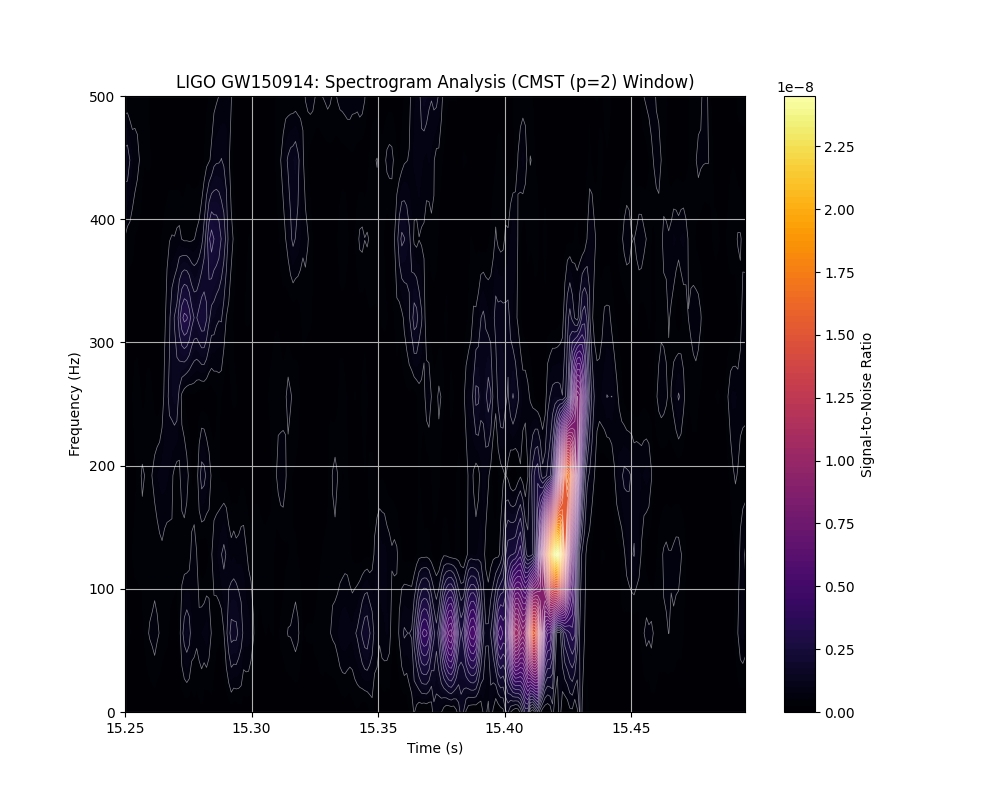
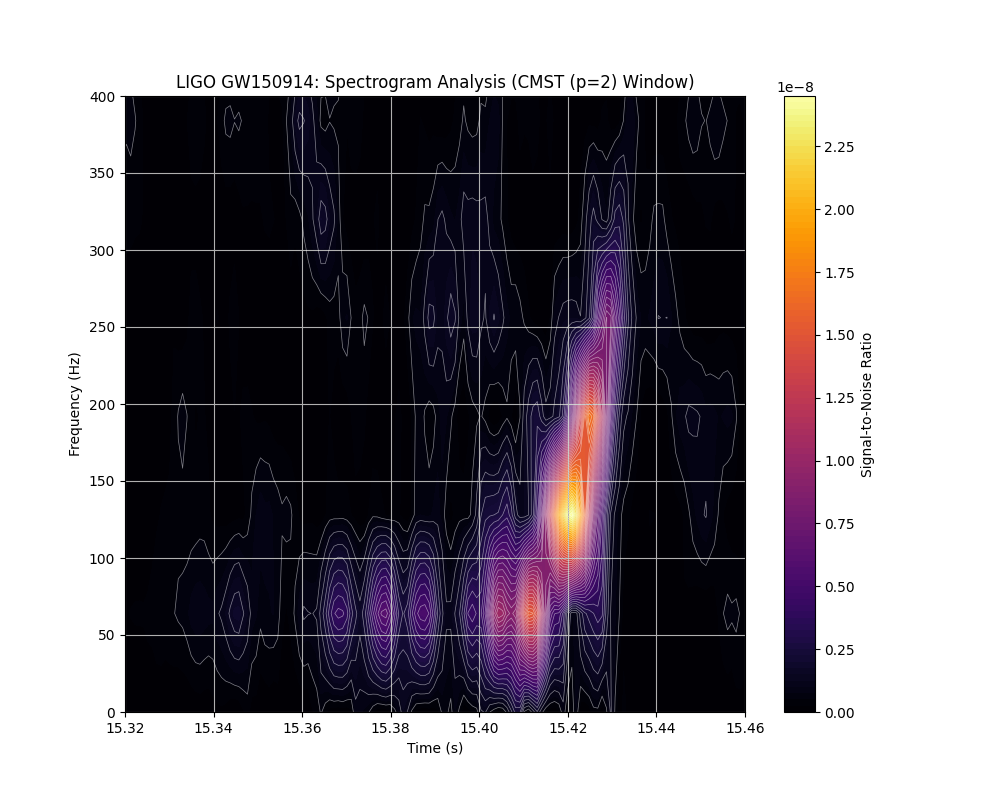
Updated scaling

diff --git a/examples/14_the_chirp.py b/examples/14_the_chirp.py
@@ -95,8 +95,8 @@ try:
     contour_lines = plt.contour(t_spec, f, Sxx, levels=60, colors='white', linewidths=0.5, alpha=0.5)
 
     # Zoom in on the Chirp
-    plt.xlim(zoom_center - 2 * zoom_width, zoom_center + 3/2 * zoom_width)
-    plt.ylim(0, 500) # The "Audible" range of the black holes
+    plt.xlim(zoom_center - 1 * zoom_width, zoom_center + 2/2 * zoom_width)
+    plt.ylim(0, 400) # The "Audible" range of the black holes
 
     plt.title(f'LIGO GW150914: Spectrogram Analysis (CMST (p=2) Window)')
     plt.ylabel('Frequency (Hz)')
